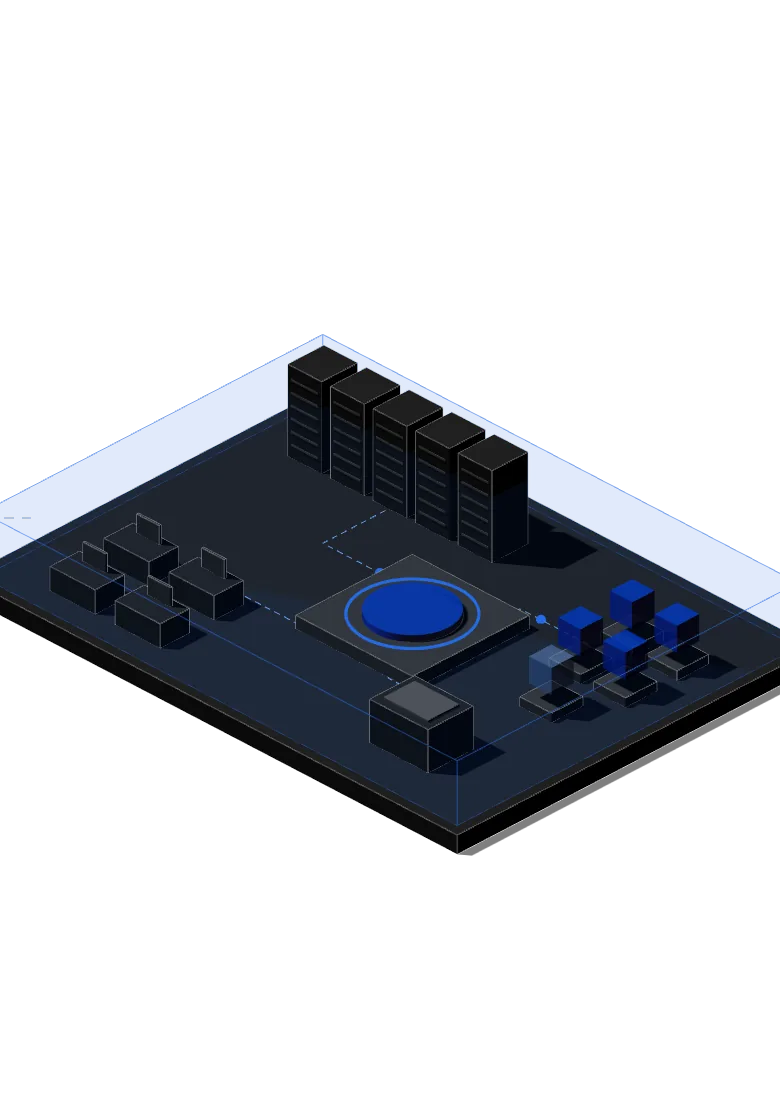
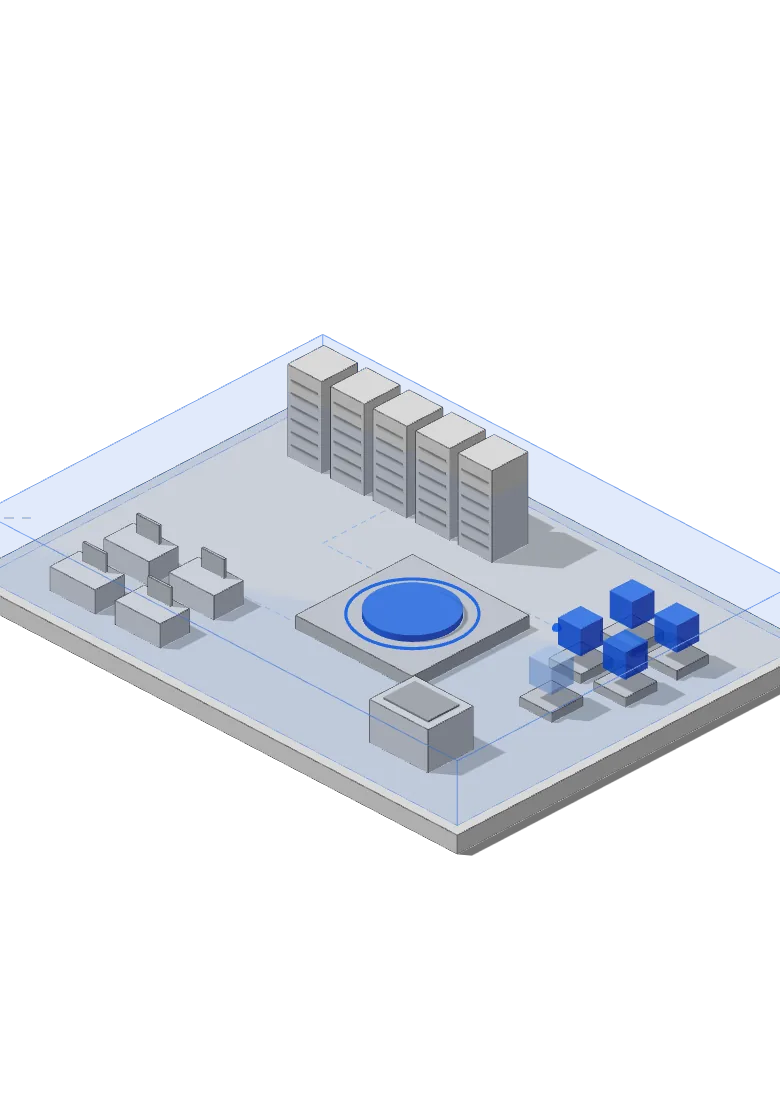
Сцена: модель контрастирует с фоном — тёмная на светлом, светлая на тёмном; снимки перегенерированы

Changed region(s): [[0.0, 0.3125, 1.0, 0.7812]]

diff --git a/scene.js b/scene.js
@@ -37,13 +37,15 @@ async function init(THREE) {
   const darkMode = document.documentElement.dataset.scheme === 'dark' ||
     (document.documentElement.dataset.scheme !== 'light' &&
      matchMedia('(prefers-color-scheme: dark)').matches);
+  // Стойки и плита контрастируют с фоном, а не повторяют его: на светлой
+  // странице модель тёмная, на тёмной — светлая. Значения ступеней Carbon.
   const C = darkMode
-    ? { clay: 0x393939, clay2: 0x525252, slot: 0x6f6f6f, edge: 0x8d8d8d, edgeOp: 0.7,
-        line: 0x4589ff, cut: 0x8d8d8d, hemiSky: 0x525252, hemiGround: 0x262626,
-        hemiI: 1.1, sunI: 1.7, shadowOp: 0.5 }
-    : { clay: 0xffffff, clay2: 0xf1f4f9, slot: 0xc8d0dd, edge: 0xb9c3d3, edgeOp: 0.55,
-        line: 0x8fb3ff, cut: 0xa8a8a8, hemiSky: 0xffffff, hemiGround: 0xc9d4e8,
-        hemiI: 1.6, sunI: 2.1, shadowOp: 0.1 };
+    ? { clay: 0xd0d0d0, clay2: 0xb5b5b5, slot: 0x8d8d8d, edge: 0x393939, edgeOp: 0.8,
+        line: 0x78a9ff, cut: 0x8d8d8d, hemiSky: 0xffffff, hemiGround: 0x6f6f6f,
+        hemiI: 1.5, sunI: 2.4, shadowOp: 0.55 }
+    : { clay: 0x1f1f1f, clay2: 0x2e2e2e, slot: 0x4a4a4a, edge: 0x8d8d8d, edgeOp: 0.5,
+        line: 0x4589ff, cut: 0x8d8d8d, hemiSky: 0xffffff, hemiGround: 0xd0d7e2,
+        hemiI: 1.5, sunI: 2.6, shadowOp: 0.22 };
 
   let renderer;
   try {

diff --git a/site.js b/site.js
@@ -1,8 +1,12 @@
 // Тестовая подмена темы: ?scheme=dark или ?scheme=light.
 // Нужна для снимков и проверки тёмного варианта; обычные посетители получают
 // тему от системной настройки через prefers-color-scheme.
-const scheme = new URLSearchParams(location.search).get('scheme');
+const qs = new URLSearchParams(location.search);
+const scheme = qs.get('scheme');
 if (scheme === 'dark' || scheme === 'light') document.documentElement.dataset.scheme = scheme;
+// ?live=1 держит сцену живой при съёмке снимков: без этого она на медленной
+// программной отрисовке сама уходит на картинку, и снимок показывает старое
+if (qs.get('live') === '1') window.atriumLive = true;
 
 // Переключатель темы. Без выбора работает системная настройка; как только
 // человек нажал кнопку, решение запоминается и перебивает системное.
